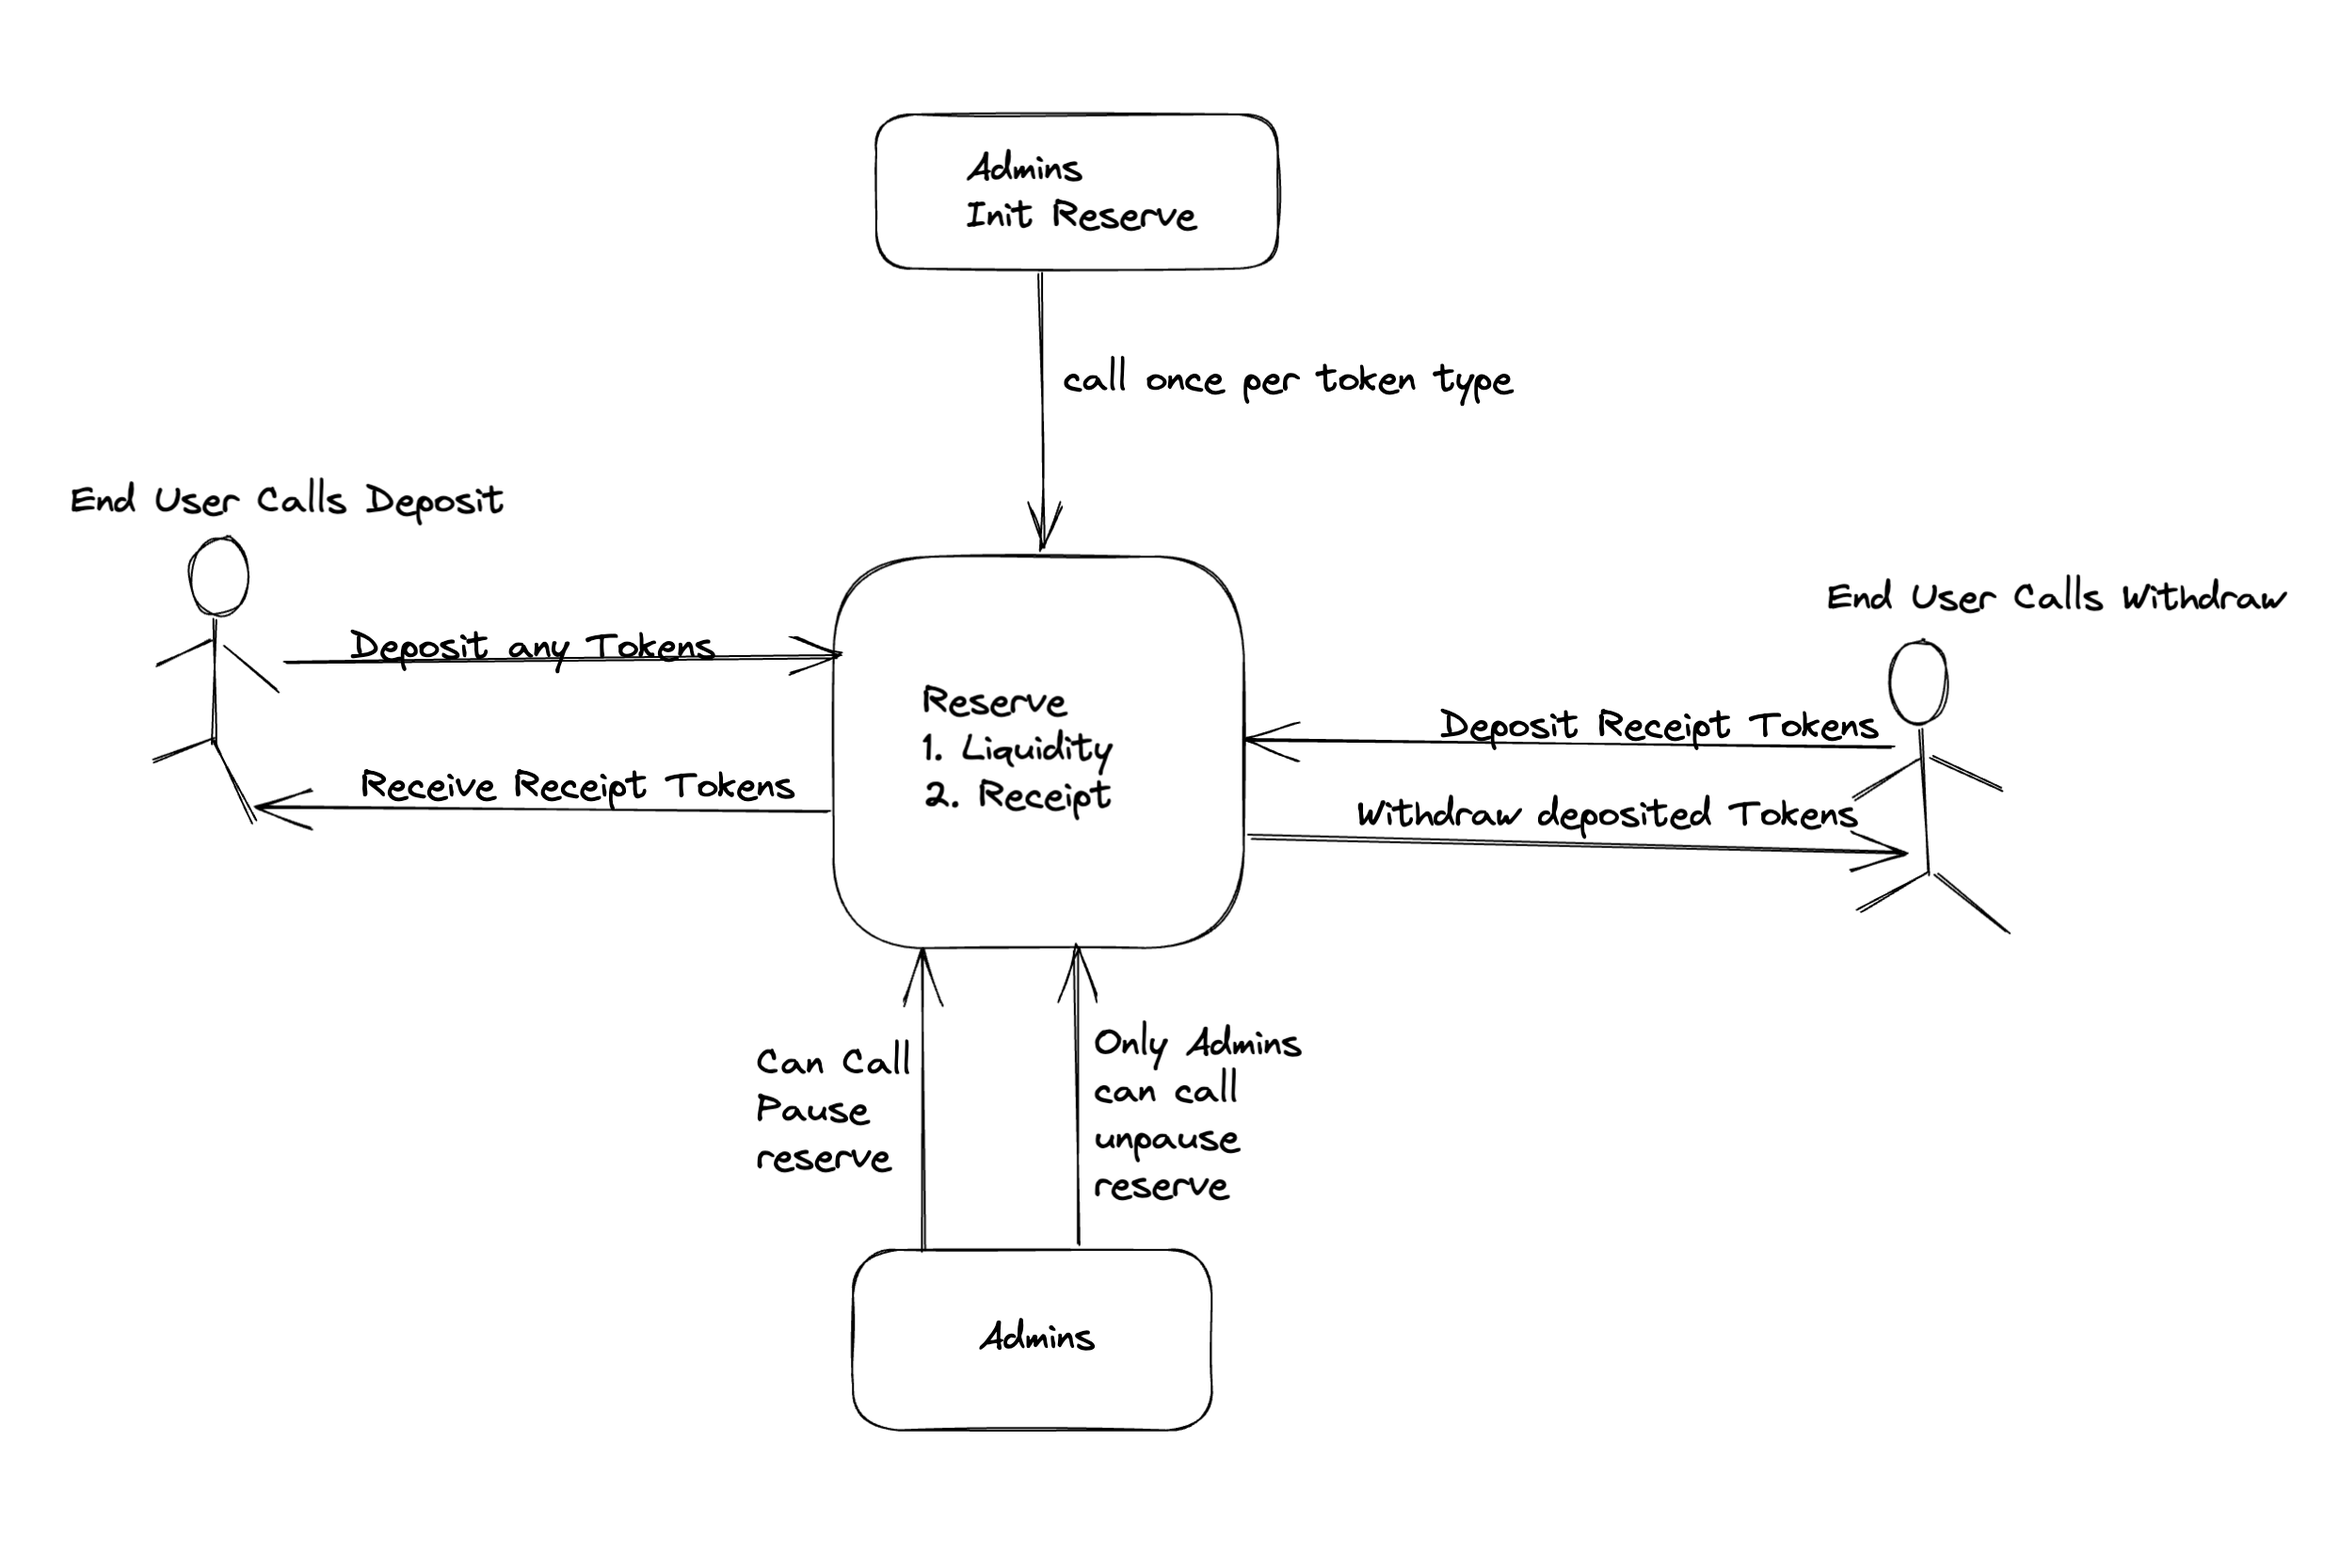
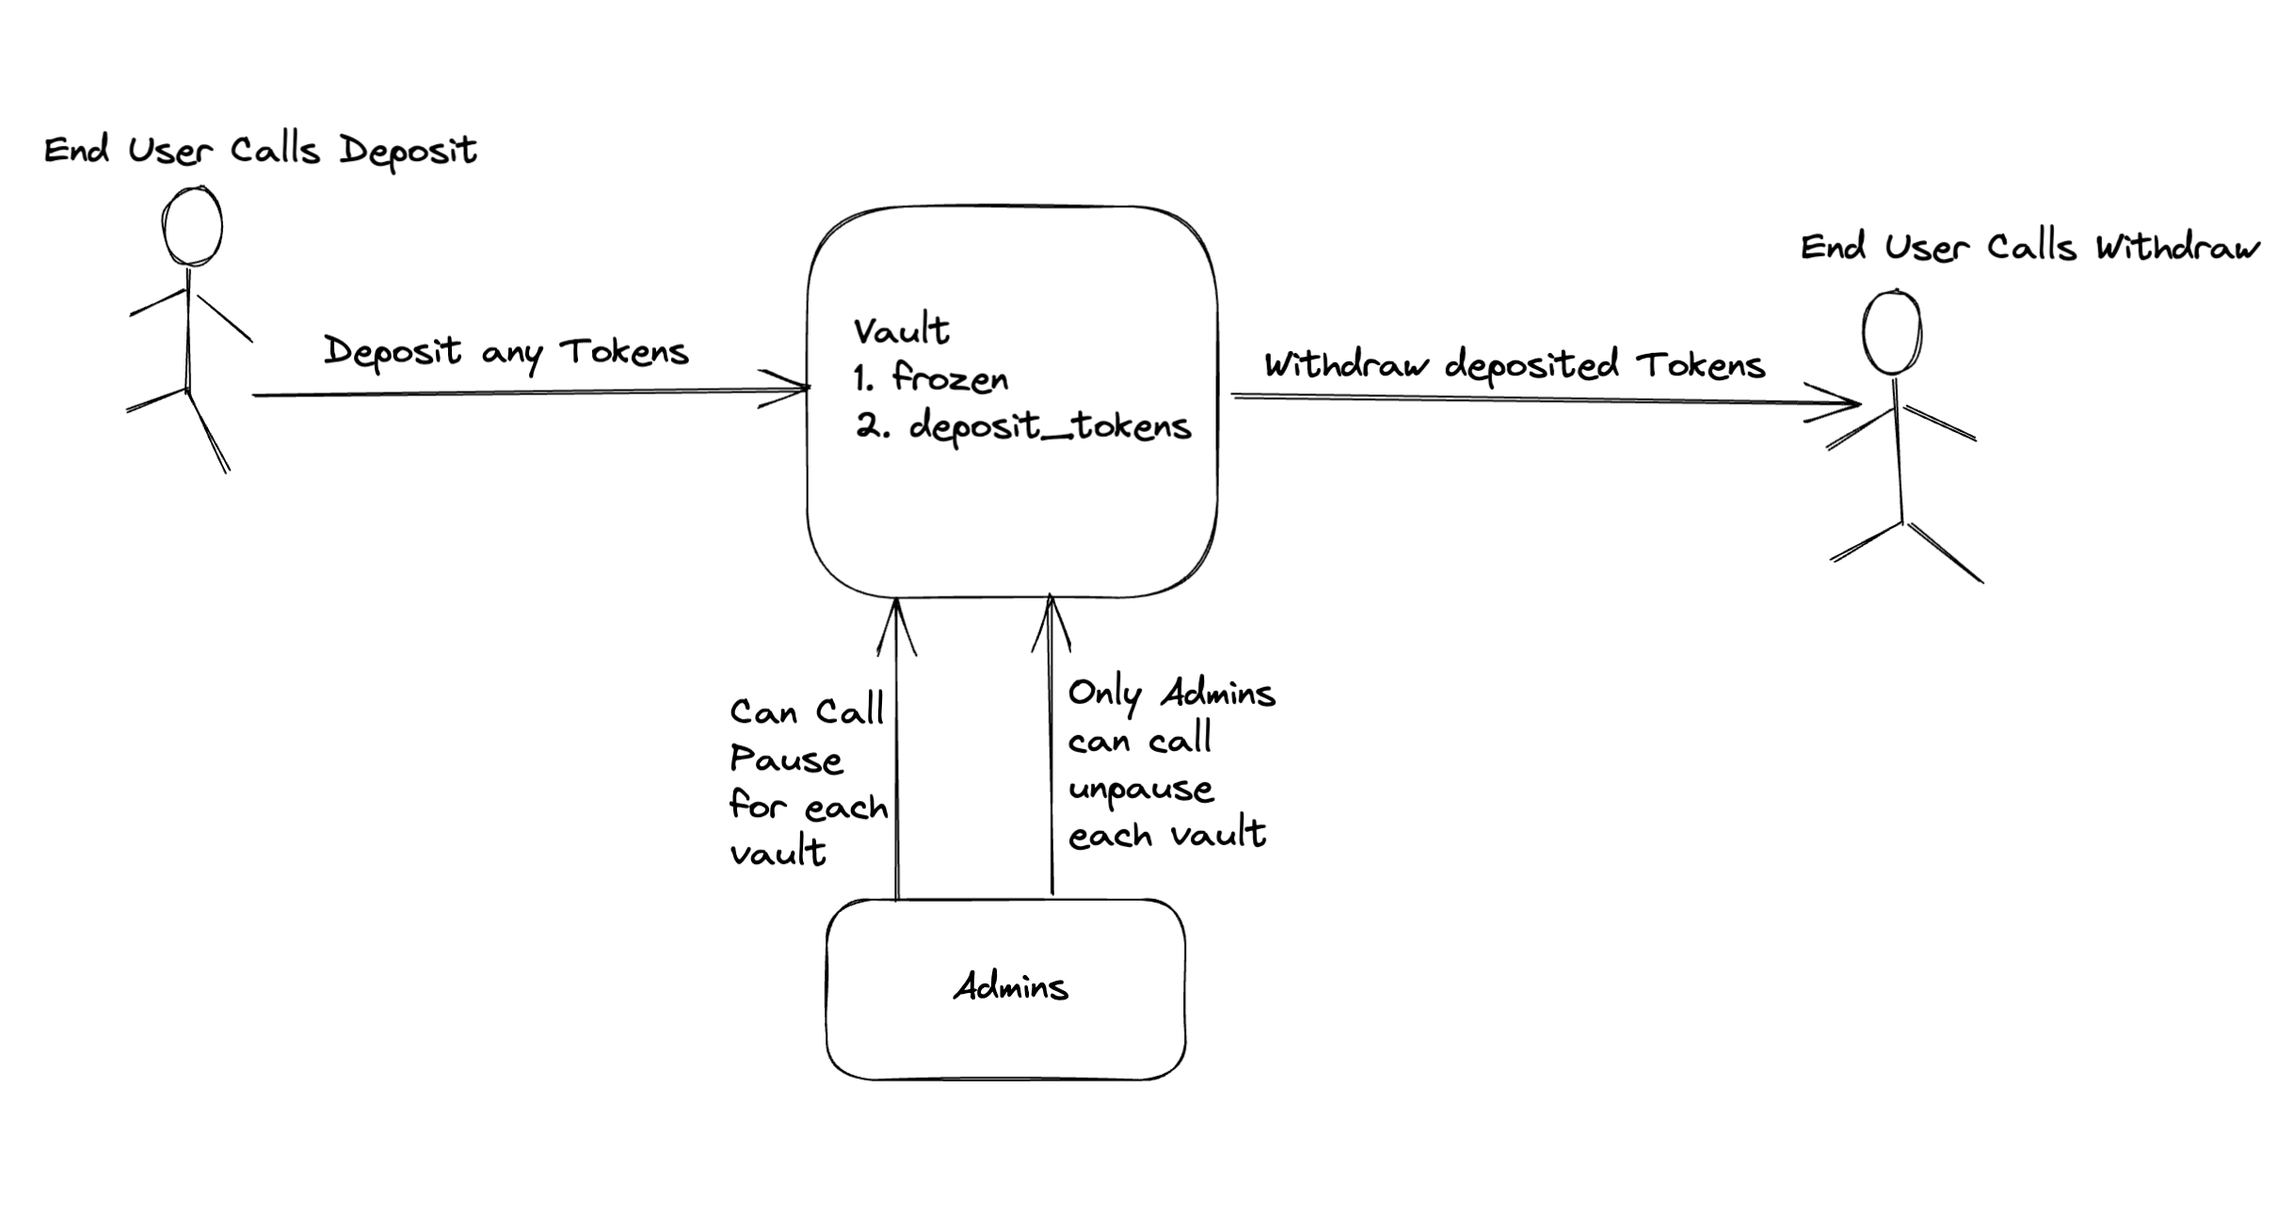
:books: update the readme

diff --git a/README.md b/README.md
@@ -2,9 +2,9 @@
 This is a move module compatible with Aptos blockchain
 
 ## Purpose 
-Vault module accepts any token types passed and stores in the liquidity separately. Motivation behind this module is to easily accept and store any tokens. 
+Vault module accepts any token types passed and stores it into the vault. Motivation behind this module is to easily accept and store any coins. 
 
-Any tokens types could be stored.
+Any coins types could be stored.
 
 ## How to use vault module ?
 
@@ -74,9 +74,9 @@ In this section we will go through the technical details of using `aptos-vault` 
 
 ### Overview
 
-The `Vault` module is a liquidity provider where users can deposit any `tokens` and receive `Receipt tokens` in return. 
+The `Vault` module is a liquidity provider where users can deposit any `coins`. 
 
-To withdraw deposited tokens, users must hold the issued `Receipt Tokens`. 
+To withdraw deposited coins, users must specify an amount to withdraw 
 
 The below image shows an overview of the architecture.
 
@@ -87,100 +87,35 @@ The below image shows an overview of the architecture.
 There are totally 5 struct we define for `Vault`.   
 
 ```rust 
-    struct Reserve<phantom TokenType> has key {
-        name : vector<u8>, // ---> 1
-        version : u8, // ---> 2
-        frozen : bool, // ---> 3
-        liquidity : Liquidity<TokenType>, // ---> 4
-        receipt : Receipt<TokenType> // ---> 5
+    struct Vault<phantom CoinType> has key {
+        frozen : bool, // ---> 1
+        deposit : Coin<CoinType>, // ---> 2
+ 
 
     }
 ```
 
 Let us see what each field means in the above `struct` (resource)
 
-1. `name` stores the reserve name
-2. `version` stores the reserve version
-3. `frozen` functionality is used by admins to pause/unpause the deposition of tokens into the reserve
-4. `liquidity` stores all users tokens into a pool. This pool is isolated and only 1 type of token (`TokenType`) can be stored
-5. `receipt` is a custom token type given to users who deposit their tokens into the liquidity
+1. `frozen` functionality is used by admins to pause/unpause the deposition of coins into the vault
+2. `deposit` stores all users coins into this field type. It only stores the `CoinType` provided 
 
-
-The `Receipt` resource is used to mint receipt tokens
-
-```rust
-    struct Receipt<phantom TokenType> has store {
-        receipt_coin : Coin<RToken<TokenType>>, // ---> 1
-        capabilities : RTokenCapabalities<TokenType> ---> 2
-    }
-```
-
-1. `receipt_coin` is used for storing receipt tokens of the type `RToken<TokenType>` 
-2. `capabilities` field is used for minting/burning of `RToken<TokenType>` type tokens. The capabilities are stored in the struct itself so that it will be easier to burn/mint tokens 
-
-
-```rust 
-    struct RTokenCapabalities<phantom TokenType> has store {
-        burn_cap: BurnCapability<RToken<TokenType>>, ---> 1
-        freeze_cap : FreezeCapability<RToken<TokenType>>, ---> 2
-        mint_cap: MintCapability<RToken<TokenType>>, ---> 3
-
-    }
-```
-
-The capabilites are stored in `RTokenCapabalities`
-1. `burn_cap` capability is for burning `RToken<TokenType>`
-2. `freeze_cap` capability is for freezing `RToken<TokenType>`
-3. `mint_cap` capability is for minting `RToken<TokenType>`
-
-
- 
-   
-```rust
-    struct RToken<phantom TokenType> has key ,store, drop { }
-```
-
-The above `struct` is a Receipt token that is created and issued to user in exchange for depositing the token of type `TokenType`
-
-
-```rust
-    struct Liquidity<phantom TokenType> has  store{
-        liquidity_tokens : Coin<TokenType>,
-    }
-```
-The above `struct`(resource) is used to store the deposited tokens. 
  
 
 ### Instructions
 Let us look at instructions available in `Vault` module.
 
-#### Initialize Reserve
 
-Anyone can initialize a token reserve. However, once initialized, it cannot be re-initialized again to the same account address.
+#### Deposit Coins 
 
-```rust 
-     /// Initialize the reserve, user who creates this reseve owns it 
-    public entry fun init_reserve<TokenType>(admin : &signer, receive_token_decimals : u8) {
-        create_reserve<TokenType>(admin, receive_token_decimals);
-    }
-```
+To deposit coins to a vault of a `CoinType`, it needs to be initialized first. This initialization is done automatically
 
-The instruction accepts 
-1. `signer` - who wants to initialize this reserve
-2. `u8` - integer used for creating `RToken<TokenType>` . It is used for denote number of decimals for the created receipt token
-
-
-#### Deposit Tokens
-
-To deposit tokens to a reserve of a `TokenType`, it needs to be initialized first. This initialization is usually done by admins.
-
-The below instruction is used for depositing to a reserve
+The below instruction is used for depositing to a vault
 
 ```rust 
-    /// Deposit the liquidity to the reserve and mint and deposit the receipt tokens back to the user
-    public entry fun deposit_liquidity<TokenType>(sender : &signer , amount : u64) acquires Reserve {
-        let admin_addr = config::ADMIN_ADDRESS();
-        deposit_liquidity_<TokenType>(admin_addr, sender, amount);  
+    /// Deposit to the vault 
+    public entry fun deposit_into_vault<CoinType>(sender : &signer , amount : u64) acquires Vault {
+        deposit_into_vault_<CoinType>(sender, amount);  
     }
 ```
 
@@ -189,57 +124,75 @@ It accepts
 1. `signer` who wants to deposit
 2. `amount` to mention how needs to be deposited.
 
-When user deposits tokens, an equal amount of `Receipt Tokens` are issued to the user as a proof that the user has deposited into the vault
 
+#### Withdraw coins
 
-#### Withdraw tokens
-
-To withdraw tokens, the following instruction is used
+To withdraw coins, the following instruction is used
 
 ```rust
-    /// withdraw the deposited tokens back from reserve. The user should give back the lp tokens
-    public entry fun withdraw_liquidity<TokenType>(sender: &signer, amount : u64) acquires Reserve {
-        let admin_addr = config::ADMIN_ADDRESS();
-        withdraw_liquidity_<TokenType>(admin_addr, sender, amount);
+    /// withdraw the deposited coins back from vault. 
+    public entry fun withdraw_from_vault<CoinType>(sender: &signer, amount : u64) acquires Vault {
+        withdraw_from_vault_<CoinType>(sender, amount);
     }
 ```
 
 It accepts
 
-1. `signer` who wants to withdraw deposited tokens
-2. `amount` to withdraw from reserve. 
+1. `signer` who wants to withdraw deposited coins
+2. `amount` to withdraw from vault. 
 
-Note: If the amount mentioned is less the `Receipt Tokens` held by user, then amount equal to `Receipt Tokens` are issued back to user.
+Note: If the amount mentioned is less the `deposited coins` held by user, then amount equal to `deposited coins` are issued back to user.
 
 
-#### Pause the reserve
+#### Pause the vault
 
-Only admins(one who instantiated reserve) can pause deposits/withdrawals of tokens
+Only admins can pause deposits/withdrawals of coins
 
-The below instruction is used to pause deposit/withdaw tokens
+The below instruction is used to pause deposit/withdaw coins
 
 ```rust
-   /// public function to pause the reserves deposit/ withdraw
-    public entry fun pause_reserve<TokenType>(sender : &signer) acquires Reserve{
-        pause_reseve_<TokenType>(sender);
+    /// public function to pause the vaults deposit/ withdraw
+    /// Should pass the account to be paused
+    public entry fun pause_vault<CoinType>(sender : &signer,pause_account : address) acquires Vault{
+        pause_vault_<CoinType>(sender, pause_account);
     } 
 ```
 
-#### Unpause the reserve
+It accepts these params
 
-This is used by admins to unpause a reserve of `TokenType`. 
+1. `signer` (admin) who wants pause an 
+2. `pause_account` address to be paused. 
+
+
+#### Unpause the vault
+
+This is used by admins to unpause a vault of `CoinType`. 
 
 ```rust
-    /// public function to pause the reserves deposit/ withdraw
-    public entry fun unpause_reserve<TokenType>(sender : &signer) acquires Reserve{
-        unpause_reseve_<TokenType>(sender);
-    }
+    /// public function to pause the vaults deposit/ withdraw
+    /// Should pass the account to be unpaused
+    public entry fun unpause_vault<CoinType>(sender : &signer, unpause_account : address) acquires Vault{
+        unpause_vault_<CoinType>(sender,unpause_account);
+    } 
 ```
+
+It accepts these params
+
+1. `signer` (admin) who wants pause an 
+2. `unpause_account` address to be paused. 
 
 
 ### Test cases
 
-To understand how to use the instructions of the `Vault` module. It is recommended to go through the `reserve_test.move`
+To understand how to use the instructions of the `Vault` module. It is recommended to go through the `vault_test.move`
+
+### Run the test cases
+
+To run the test cases, run the following command
+
+```bash
+aptos move test
+```
 
 
 ### Config
@@ -260,8 +213,8 @@ If you plan to contribute to this repo, please open a PR.
 
 ## Further improvements
 
-Idea 1 : We need to manually track all the initialized token reserves. It would be better if this can be saved in a table for easy tracking purpose
+Idea 1 : We need to manually track all the initialized token vaults. It would be better if this can be saved in a table for easy tracking purpose
 
-Idea 2 : The Initialized reserves could be stored in their own accounts. Meaning we could use `resource_accounts` and make the token reserve to manage itself so that end users don't have to manage them.  
+Idea 2 : The Initialized vaults could be stored in their own accounts. Meaning we could use `resource_accounts` and make the token vault to manage itself so that end users don't have to manage them.  
 
 
